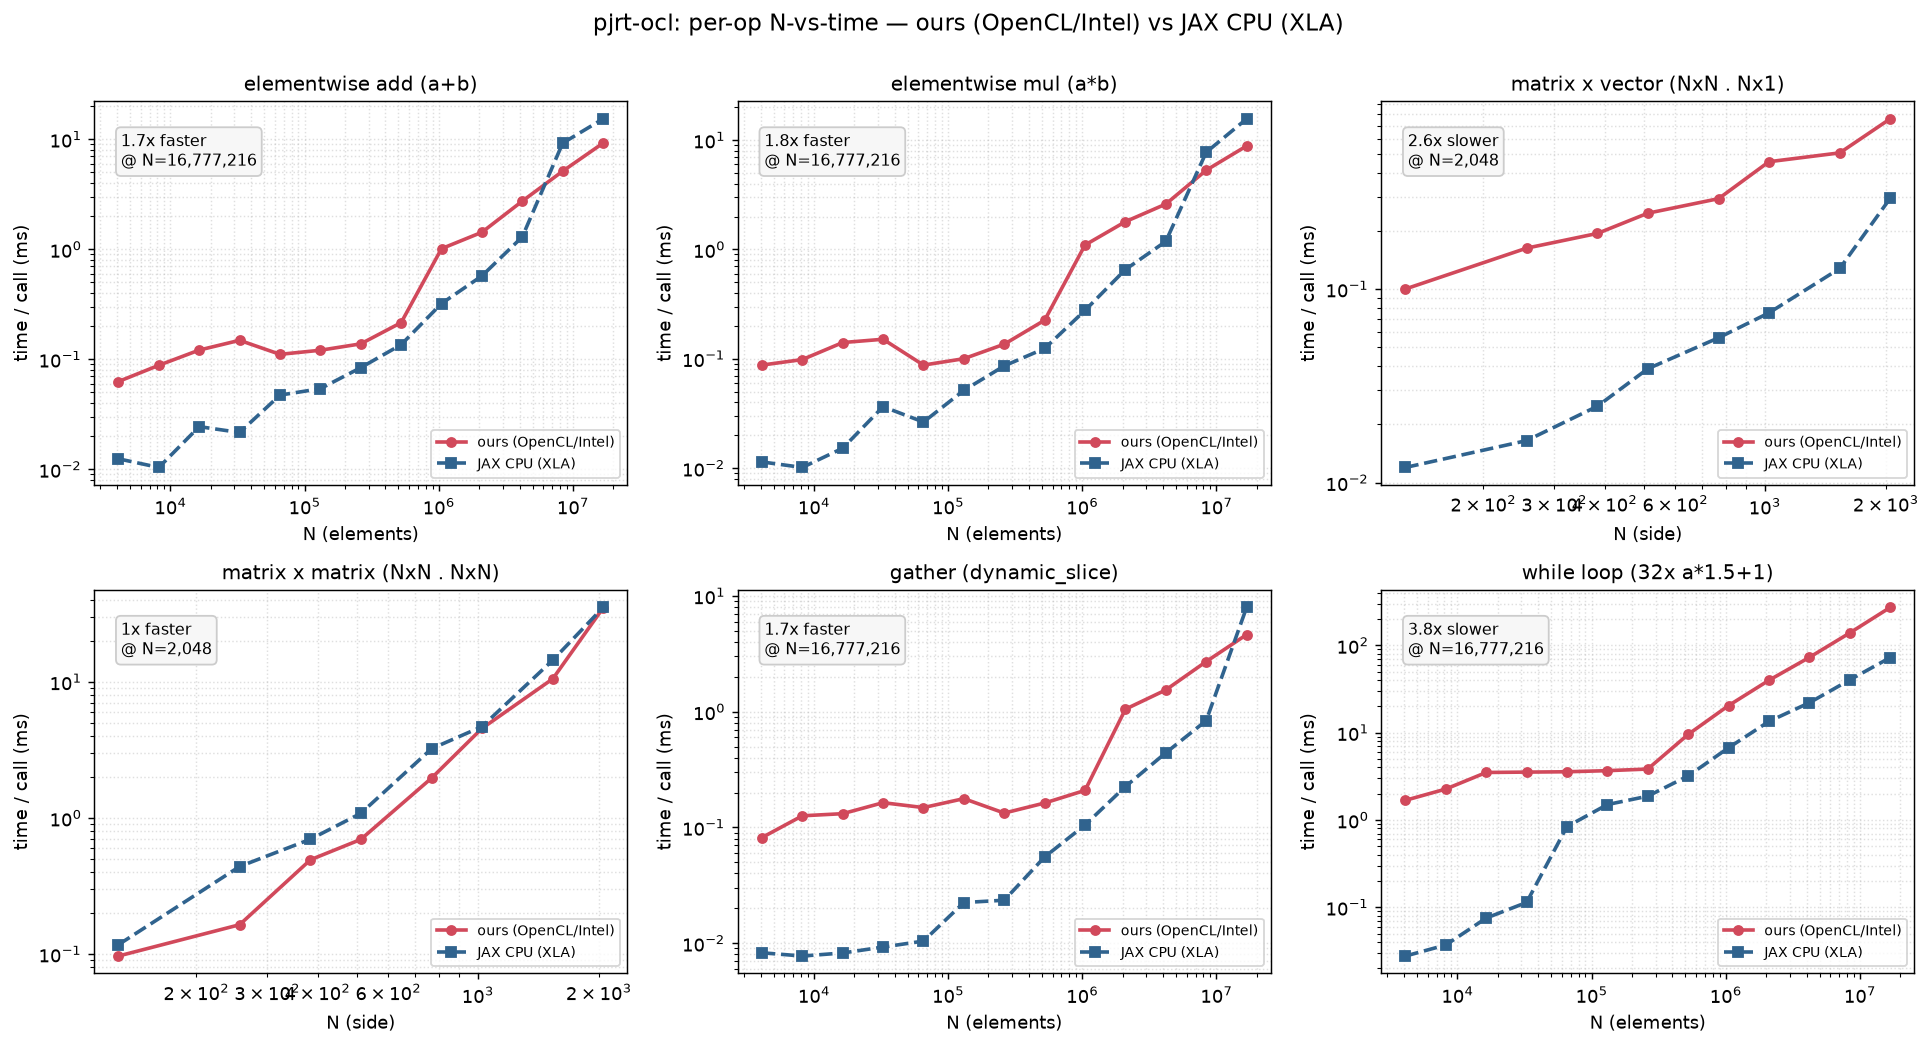
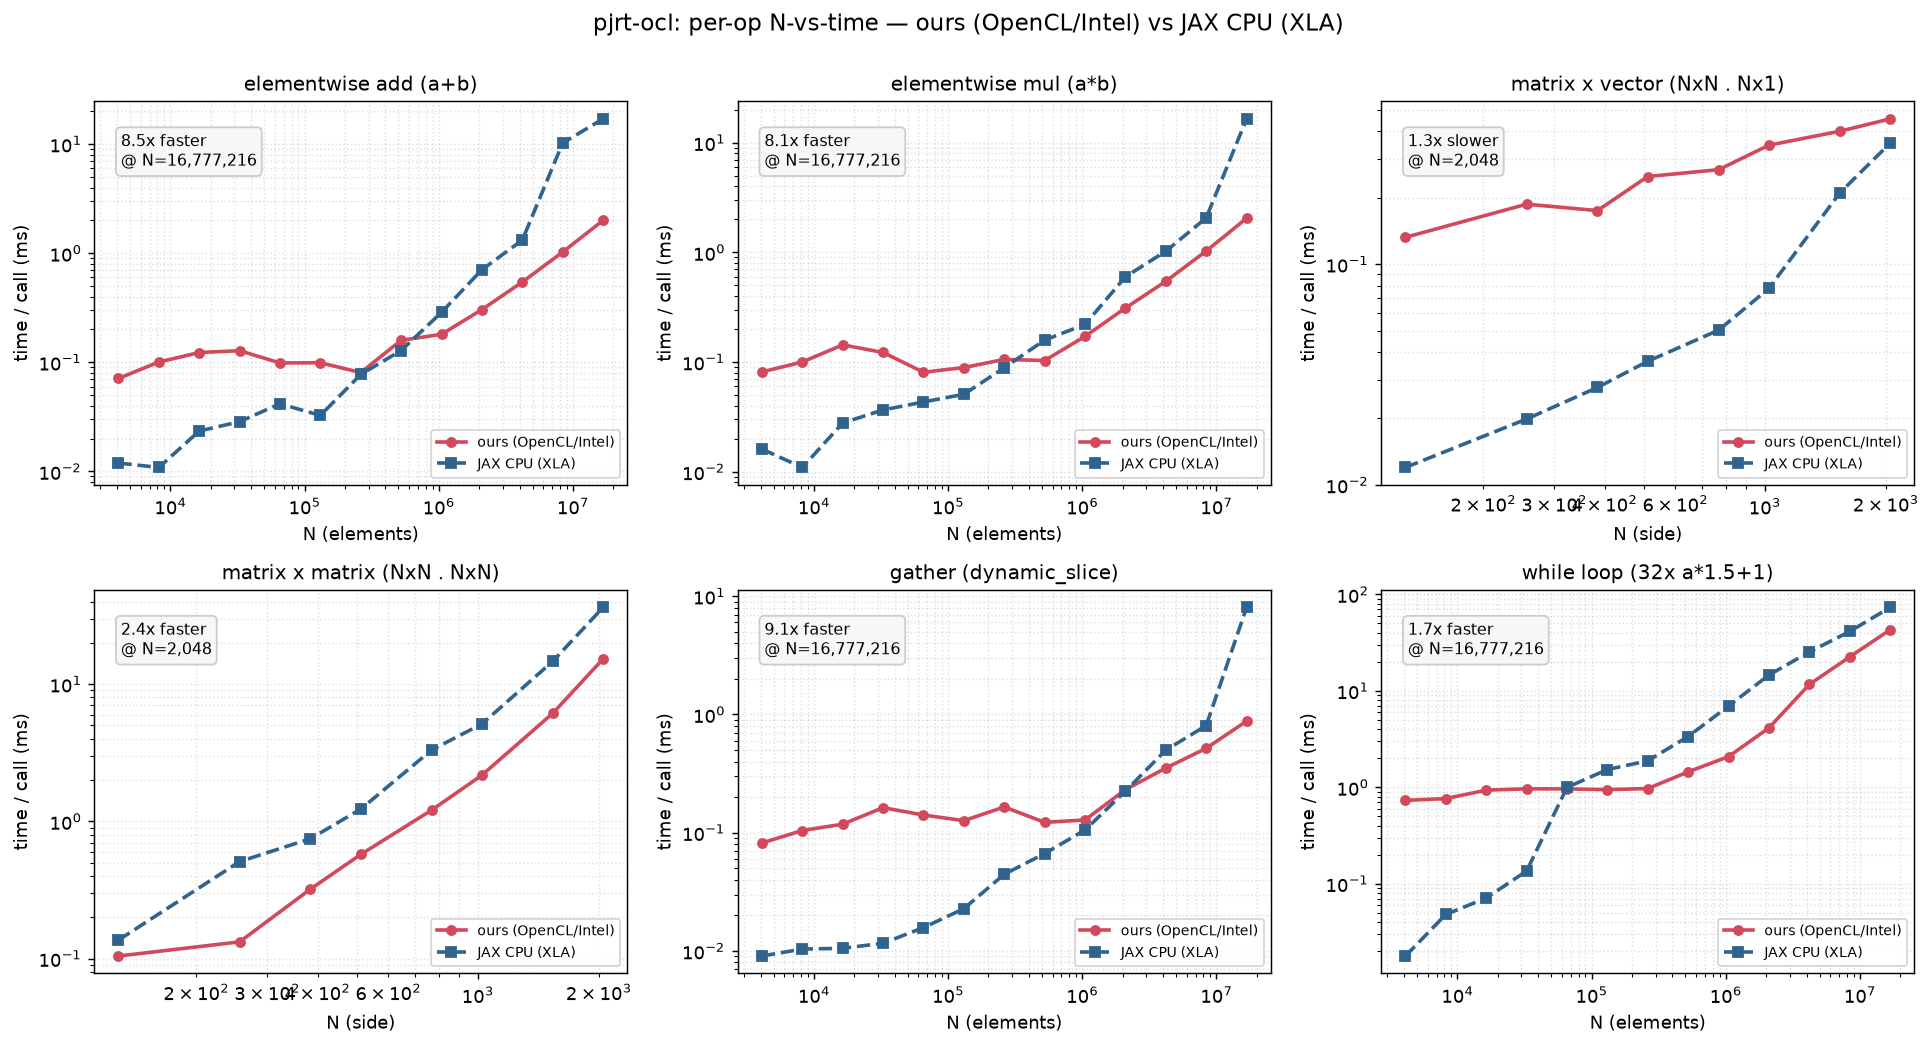
docs: post-merge Xe2 + PoCL benchmarks, CPU-vs-GPU comparison subsection
Re-measured on the merged engine (zero-copy ports, buffer pool, affine/while
fixes, mm2 SGEMM). Xe2 vs XLA CPU: elementwise/gather ~8-9x faster at 16M
(~100 GB/s effective, was ~22 pre-merge), matmul faster at every size
(~1.1 TFLOP/s at 2048^3), while 1.7x faster at 16M with ~23us/iter small-N
overhead (was ~110). PoCL documented as the debug backend it is (2.6-90x off
native XLA CPU). New 'CPU vs GPU, same machine' subsection: both backends
through the plugin on Lunar Lake — iGPU wins everywhere above ~64K
(22-24x elementwise/gather, ~200x matmul at 2048). plot_bench gains
--compare CSV_A CSV_B for ours-vs-ours plots.

diff --git a/tools/plot_bench.py b/tools/plot_bench.py
@@ -250,10 +250,30 @@ def main():
     ap.add_argument("--out", default=str(REPO / "tools" / "bench_plot.png"))
     ap.add_argument("--replot", metavar="CSV",
                     help="skip benchmarking; re-render the plot from a CSV")
+    ap.add_argument("--compare", nargs=2, metavar=("CSV_A", "CSV_B"),
+                    help="skip benchmarking; plot CSV_A's ours_ms against "
+                         "CSV_B's ours_ms (e.g. GPU vs CPU through the "
+                         "plugin). --labels names the two sides.")
+    ap.add_argument("--labels", nargs=2, default=["A", "B"],
+                    help="with --compare: device labels for CSV_A / CSV_B")
     args = ap.parse_args()
 
     if args.worker:
         raise SystemExit(run_worker(args.worker))
+
+    if args.compare:
+        def ours_col(path):
+            d: dict = {}
+            with open(path) as f:
+                next(f)
+                for line in f:
+                    op, n, om, _rm = line.rstrip("\n").rsplit(",", 3)
+                    d.setdefault(op, {})[int(n)] = float(om)
+            return d
+        a, b = (ours_col(p) for p in args.compare)
+        plot(a, b, f"ours (OpenCL/{args.labels[1]})", args.labels[0],
+             pathlib.Path(args.out))
+        return
 
     if args.replot:
         ours, refd, ref_label = {}, {}, "JAX CUDA (native)"

diff --git a/README.md b/README.md
@@ -189,23 +189,57 @@ it's the alternative you'd actually use.
 
 ![ours (OpenCL/Xe2) vs JAX CPU, per-op N-vs-time](docs/bench_plot_xe2.png)
 
-- **Large arrays are where the iGPU pays off**: elementwise at 8–16M elements
-  runs ~1.7x *faster* than XLA CPU (~22 GB/s effective on LPDDR5X; zero-copy
-  USM is the obvious next win on an integrated GPU), and `dot_general` is
-  equal-or-faster at *every* size (~490 GFLOP/s at 2048³ from the naive tile
-  kernel — ~23% of the device's fp32 peak).
-- **Small ops are dispatch-bound** (~60–160 µs wall-clock vs XLA CPU's
-  ~10–30 µs): 2–10x slower below ~256K elements. Batch or fuse small work.
-- **`while` loops cost ~110 µs/iteration** at small N — far above the raw
-  1.9 µs cross-workgroup barrier (poc/08), so control-flow round-trips
-  dominate; the same gap seen on NVIDIA, same fix direction (loop-body fusion).
+- **Large arrays are where the iGPU pays off, and the gap grows with N**:
+  elementwise and `gather` at 16M run **~8–9x faster** than XLA CPU
+  (~100 GB/s effective — the zero-copy I/O ports matter doubly on an
+  integrated GPU, where "device memory" is the same LPDDR5X). Crossover vs
+  XLA CPU: ~512K–1M elements for elementwise, ~4M for `gather`, ~64K for the
+  `while` loop. `dot_general` is faster at *every* size — ~1.1 TFLOP/s at
+  2048³ via the standalone SGEMM path, ~2.4x XLA CPU.
+- **`while` loops**: ~23 µs/iteration overhead at small N (the affine-fold +
+  in-place-carry + barrier-spin fixes cut it ~5x), and 1.7x *faster* than XLA
+  CPU at 16M.
+- **Small ops are dispatch-bound** (~70–160 µs wall-clock vs XLA CPU's
+  ~10–30 µs): expect 2–10x slower below ~256K elements; batch or fuse small
+  work. `matrix × vector` stays memory-bound through the MMA tile kernel
+  (1.3–11x slower; a dedicated GEMV kernel is the known fix, same as NVIDIA).
 - Bring-up found and fixed a real portability bug: lane count is now *measured*
   at init (occupancy discovery, `docs/decisions.md` §9) instead of derived from
   the vendor-ambiguous `CL_DEVICE_MAX_COMPUTE_UNITS`.
 
 ### CPU via PoCL (Intel Core Ultra 9 288V) — vs JAX native CPU
 
-<!-- POCL_BENCH -->
+**Testbench: full suite green.** This is a same-silicon CPU-vs-CPU comparison:
+our plugin through PoCL's OpenCL against JAX's native XLA CPU backend on the
+same 8 cores. It answers "what does the OpenCL detour cost on a CPU?" —
+
+![ours (OpenCL/PoCL) vs JAX native CPU, per-op N-vs-time](docs/bench_plot_pocl.png)
+
+- **PoCL is the project's debug backend, not a performance target**: printf,
+  host debuggers, and sanitizers work there, which is why it exists in the
+  matrix. Numbers reflect that: elementwise ~2.6x slower than XLA CPU at 16M,
+  `while` ~5x, and naive-tile `dot_general` ~90x off XLA's vectorized matmul
+  at 2048³.
+- If your machine has *any* supported GPU — including an iGPU — use it
+  (see below). Choose PoCL for bring-up, debugging, and CI-without-GPU.
+
+### CPU vs GPU, same machine (Lunar Lake), both through pjrt-ocl
+
+The two backends above share silicon and memory (LPDDR5X); here they are
+against each other — GPU (red) vs CPU (blue), both running the identical
+bytecode through this plugin
+(`tools/plot_bench.py --compare docs/bench_plot_xe2.csv docs/bench_plot_pocl.csv`):
+
+![ours Xe2 iGPU vs ours PoCL CPU, per-op N-vs-time](docs/bench_plot_lnl_xe2_vs_pocl.png)
+
+- The iGPU wins **everywhere except sub-64K elementwise**, where both are
+  dispatch-bound and tie: **~22–24x** on elementwise/`gather` at 16M, **~9x**
+  on the `while` loop, and **~200x** on `matmul`/`matvec` at 2048 (the CPU
+  runs the same naive tile kernels that the GPU parallelizes; XLA's own CPU
+  matmul is the fairer CPU baseline, see the PoCL section).
+- Practical guidance: on any machine with a working GPU ICD, the default
+  device selection (first GPU) is the right choice; select PoCL explicitly
+  (`PJRT_OCL_DEVICE=Portable`) only for debugging.
 
 ## Inside the VM: scheduled vs. measured execution
 